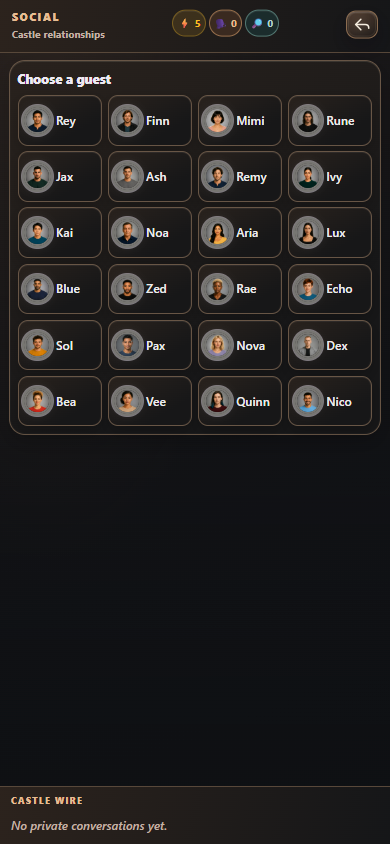
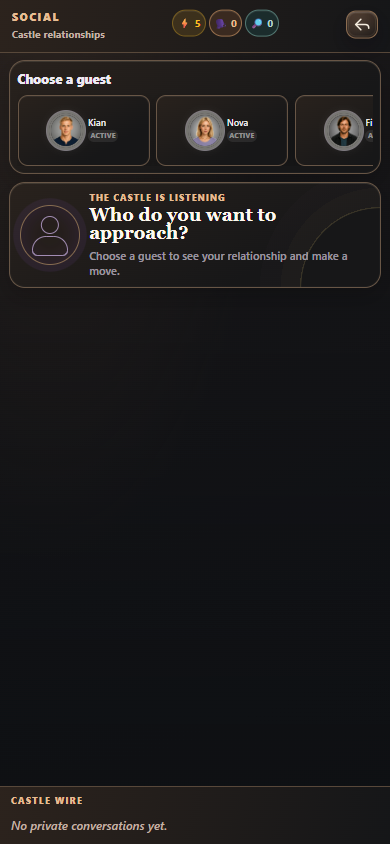
Restore the horizontal Social guest list

diff --git a/src/betrayals/betrayals-social.css b/src/betrayals/betrayals-social.css
@@ -86,49 +86,6 @@
   padding-bottom: 0.46rem;
 }
 
-.betrayals-social-dialog .betrayals-social-roster .player-list {
-  display: grid;
-  grid-template-columns: repeat(auto-fill, minmax(5.15rem, 1fr));
-  gap: 0.36rem;
-  overflow: visible;
-  scroll-snap-type: none;
-}
-
-.betrayals-social-dialog .betrayals-social-roster .pc {
-  min-height: 3.15rem;
-  height: auto;
-  margin: 0;
-}
-
-.betrayals-social-dialog .betrayals-social-roster .pc__row {
-  justify-content: flex-start;
-  gap: 0.33rem;
-  padding: 0.35rem;
-}
-
-.betrayals-social-dialog .betrayals-social-roster .pc__row .pa {
-  width: 1.65rem;
-  height: 1.65rem;
-  flex-basis: 1.65rem;
-}
-
-.betrayals-social-dialog .betrayals-social-roster .pc__name {
-  font-size: 0.76rem;
-}
-
-.betrayals-social-dialog .betrayals-social-roster .pc__status--active,
-.betrayals-social-dialog
-  .sp2-body[data-can-act]:has(.betrayals-social-roster)
-  > .sp2-focus:not(.sp2-focus--active) {
-  display: none;
-}
-
-@media (min-width: 680px) {
-  .betrayals-social-dialog .betrayals-social-roster .player-list {
-    grid-template-columns: repeat(auto-fill, minmax(7.5rem, 1fr));
-  }
-}
-
 .betrayals-social-dialog .sp2-body .sp2-moves__top {
   background: linear-gradient(180deg, #33281f, #211c18);
 }

diff --git a/src/betrayals/BetrayalsSocialPanel.tsx b/src/betrayals/BetrayalsSocialPanel.tsx
@@ -721,10 +721,9 @@ export function BetrayalsSocialPanel({
         <div
           id="betrayals-social-body"
           className={'sp2-body' + (peer && canAct ? ' sp2-body--focused-target' : '')}
-          data-can-act={canAct || undefined}
         >
           {!peer && contacts.length > 0 && (
-            <section className="sp2-hubmates betrayals-social-roster" aria-label="Player roster">
+            <section className="sp2-hubmates" aria-label="Player roster">
               <div className="sp2-section-heading">
                 <span className="sp2-section-heading__title">Choose a guest</span>
               </div>
